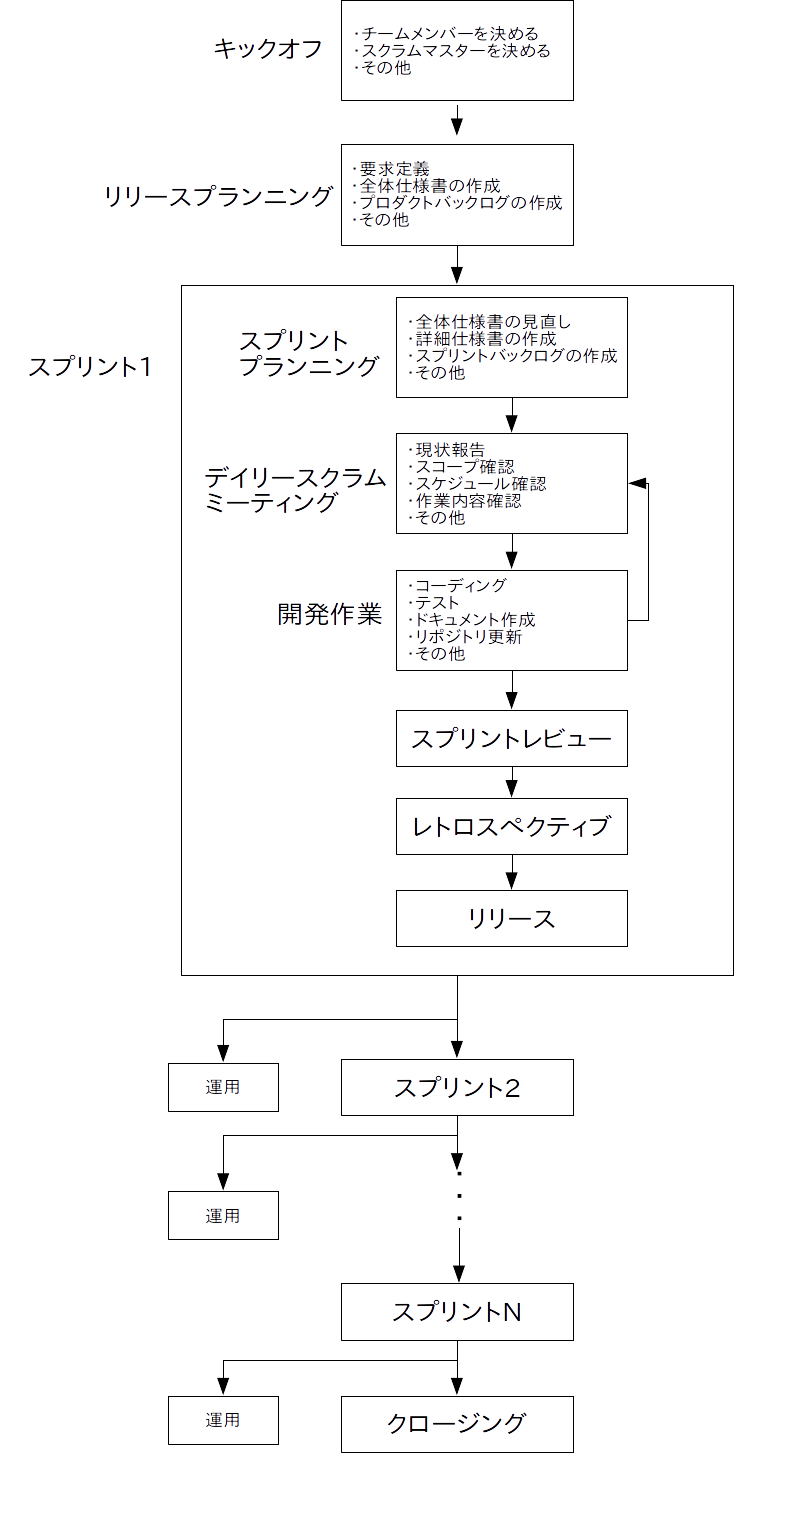
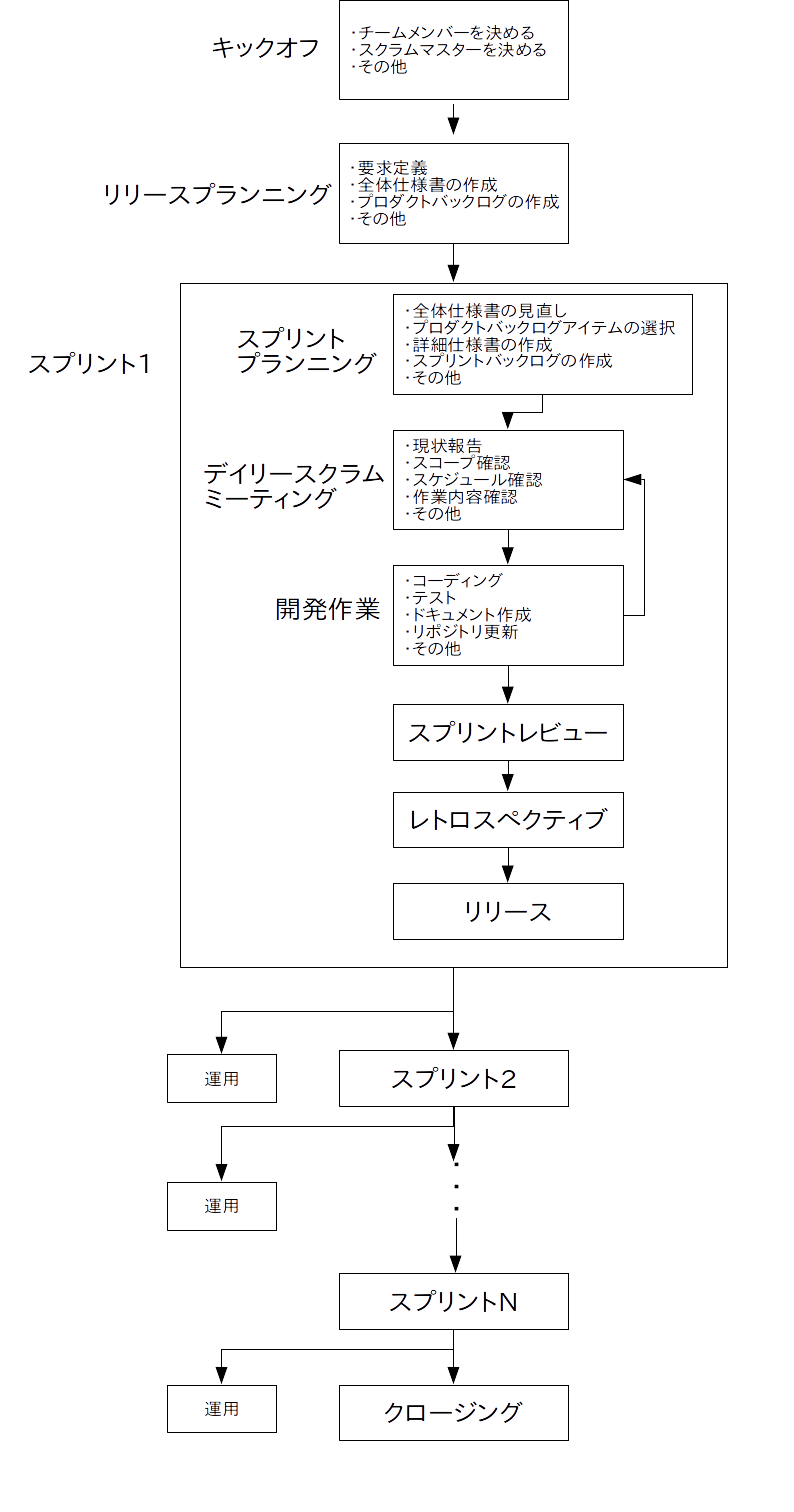
scrum更新

diff --git a/docs/activity/scrum/text02/practice.html b/docs/activity/scrum/text02/practice.html
@@ -137,12 +137,58 @@
 
 <br>
 <p>
-<input type="checkbox"><b>演習 2-6 (チーム、30分):</b>  (シチュエーション: 開発ルームでの作業) 全体仕様書を元にプロダクトバックログを作成します。
+<input type="checkbox"><b>演習 2-6 (チーム、30分):</b>  (シチュエーション: 開発ルームでの作業) リモートリポジトリを新規作成してメンバーを登録します。
 </p>
-準備中
+<div class="olradio"> 
+<p>
+<span class="olradio"><input type="radio" name="p6"></span> <a href="../../git/text01/practice.html">こちら</a>を参考にして、代表者は GitHub 上に新規でリモートリポジトリを作成します。名前はゲームのタイトルに合わせて下さい。
+<br>
+<span class="olradio"><input type="radio" name="p6"></span> <a href="../../git/text03/page01.html">こちら</a>を参考にし、代表者は他のチームメンバーにインビテーションを送ってコラボレーターとして登録をします。
+<br>
+<span class="olradio"><input type="radio" name="p6"></span> 各メンバーはリモートリポジトリを clone します。
+<br>
+<span class="olradio"><input type="radio" name="p6"></span> 指定場所にリモートリポジトリのトップアドレスを記述して下さい。 
+<br>
+</div>
+
+<br>
+<p>
+<input type="checkbox"><b>演習 2-7 (チーム、30分):</b>  (シチュエーション: 開発ルームでの作業) プロダクトバックログを作成します。
+</p>
+<div class="olradio"> 
+<p>
+<span class="olradio"><input type="radio" name="p7"></span> <a href="../../wbs/text02/practice.html">こちら</a>を参考にして、代表者はリモートリポジトリの Projects タブを開き、「プロダクトバックログ」という名前でカンバン(プロジェクト)を新規作成します。
+<br>
+<span class="olradio"><input type="radio" name="p7"></span> 他のメンバーも作成したカンバンを表示し、 全体仕様書を元にチーム内で話し合いながらバックログアイテムを作成・登録していきます。※ 担当者名は入れなくて良いです。
+<br>
+<span class="olradio"><input type="radio" name="p6"></span> 指定場所にカンバンのアドレスを記述して下さい。 
+</div>
 
 <br>
 <h2><a href="./page03.html">3. スプリント</a></h2>
+
+<br>
+<p>
+<input type="checkbox"><b>演習 2-8 (チーム、30分):</b>  (シチュエーション: 開発ルームでの作業) スプリントプランニングミーティングを行います。
+</p>
+<div class="olradio"> 
+<p>
+<span class="olradio"><input type="radio" name="p8"></span> (必要なら)全体仕様書を見直し、「プロダクトバックログ」カンバンのToDo列に含まれるアイテムの修正を行います。
+<br>
+<span class="olradio"><input type="radio" name="p8"></span> 今回のスプリントで実施するプロダクトバックログアイテムを選択し、カンバンのDoing列に移動します。
+<br>
+<span class="olradio"><input type="radio" name="p4"></span> 詳細仕様書を作成します。代表者は自分のOneDrive上にOneNoteで詳細仕様書を新規作成してメンバー間で共有します。そして今回のスプリントで実装予定の内容を文章や箇条書き、クラス図、表、グラフ、イラスト等に詳しくまとめて下さい。
+</p>
+<ul>
+<li>画像のサイズとかキャラクターの移動スピードなど、かなり細かい数値まで決めて下さい。</li>
+<li>この後のデイリースクラムミーティングで仕様は見直し可能なので、深く考えず素早く仕様を決めて下さい。</li>
+<li>クラス図やシーンの遷移図、画面等のイラストがあると今後の開発が楽になります。</li>
+<li>イラストは再利用可能な様に手描きではなくてドローツールやイラストレイター等を使って作成して下さい。</li>
+</ul>
+<p>
+以下準備中
+</p>
+</div>
 
 
 <br>

diff --git a/docs/activity/scrum/text02/page03.html b/docs/activity/scrum/text02/page03.html
@@ -1,0 +1,103 @@
+<!DOCTYPE html>
+<html lang="ja">
+<head>
+<meta charset="UTF-8">
+<meta name="viewport" content="width=device-width,initial-scale=1.0,minimum-scale=1.0">
+<link rel="stylesheet" href="../../../common.css">
+<script src="../../../common.js"></script>
+<title>3. スプリント</title>
+</head>
+<body>
+
+<nav class="brcr">
+<ol>
+<li><a href="../">アクティビティ: スクラムによるソフトウェア開発</a></li>
+<li>学習項目: [2] スクラム開発演習</li>
+<li><script>GetTitle()</script></li>
+</ol>
+</nav>
+
+<h2><script>GetTitle()</script></h2>
+
+<div class="info">
+<input type="checkbox"><b>図1. スクラム開発のプロセス(再掲)</b>
+<p>　</p>
+<img src="../text01/img/page05-fig1.png" alt="">
+</div>
+
+<p>
+さてリリースプランニングで大まかな全体計画が出来たので、いよいよ<b>スプリント</b>に入ります。
+<br>
+スプリントでは
+</p>
+
+<ul>
+<li>スプリントプランニングミーティング</li>
+<lI>デイリースクラムミーティング</li>
+<li>開発作業</li>
+<li>スプリントレビュー</li>
+<li>レトロスペクティブ</li>
+<li>リリース</li>
+</ul>
+<p>
+を実施します。
+</p>
+
+<br>
+<h2>1. スプリントプランニングミーティング</h2>
+
+<p>
+スプリントが始まったらまず<b>スプリントプランニングミーティング</b>(スプリント計画会議)を行います。
+<br>
+スプリントプランニングミーティングでは
+</p>
+
+<ul>
+<li>全体仕様書の見直し</li>
+<li>プロダクトバックログアイテムの選択</li>
+<li>詳細仕様書の作成</li>
+<li>スプリントバックログの作成</li>
+</ul>
+<p>
+を実施します。
+</p>
+
+<p>
+まず全体仕様書を見直して、もし見直しが必要だと判断したら全体仕様書とプロダクトバックログの修正をします。
+</p>
+
+<p>
+次に今回のスプリントで実施するプロダクトバックログアイテムを選択します。
+<br>
+選択するアイテムはひとつでも複数個でも構いませんが、くれぐれもスコープ(する事や作業期間)から逸脱しない程度の個数に抑えて下さい。
+</p>
+
+<p>
+次は選んだプロダクトバックログと全体仕様書を元に、今回のスプリントの詳細な作業内容を決めて<b>詳細仕様書</b>にまとめます。
+<br>
+ただし全体仕様書の様な大まかな内容ではなく、今回はかなり詳細な部分まで内容を詰める必要があります。
+</p>
+
+<p>
+詳細仕様書を作成したら次は<b>スプリントバックログ</b>を作成します。
+<br>
+スプリントバックログは今回のスプリントで実行するタスクリストで、基本的な作り方はプロダクトバックログと同じです。
+</p>
+
+<p>
+まず詳細仕様書を元にタスク(<b>スプリントバックログアイテム</b>と言います)をリストアップし、依存関係や重要度や難易度などから優先順位を決めていきます。
+<br>
+また各作業担当者もこの時点で決めます。
+<br>
+ちなみにスプリントバックログアイテムもユーザー目線で書くことが大事です。
+</p>
+
+<br>
+
+
+<br>
+<script>PreNext(3,4)</script>
+</body>
+</html>
+
+

diff --git a/docs/activity/scrum/index.html b/docs/activity/scrum/index.html
@@ -31,7 +31,7 @@
 <li><a href="../wbs/">アクティビティ: WBS とカンバンによるスケジュール管理</a></li>
 </ol>
 <p>
-最終更新日: 2017/11/30
+最終更新日: 2017/12/5
 </p>
 </div>
 
@@ -82,7 +82,7 @@
 <ol>
 <li><a href="./text02/page01.html">キックオフ</a></li>
 <li><a href="./text02/page02.html">リリースプランニング</a></li>
-<li>スプリント</li>
+<li><a href="./text02/page03.html">スプリント</a></li>
 <li>運用とクロージング</li>
 </ol>
 <span class="prac"><a href="./text02/practice.html">演習</a></span>
